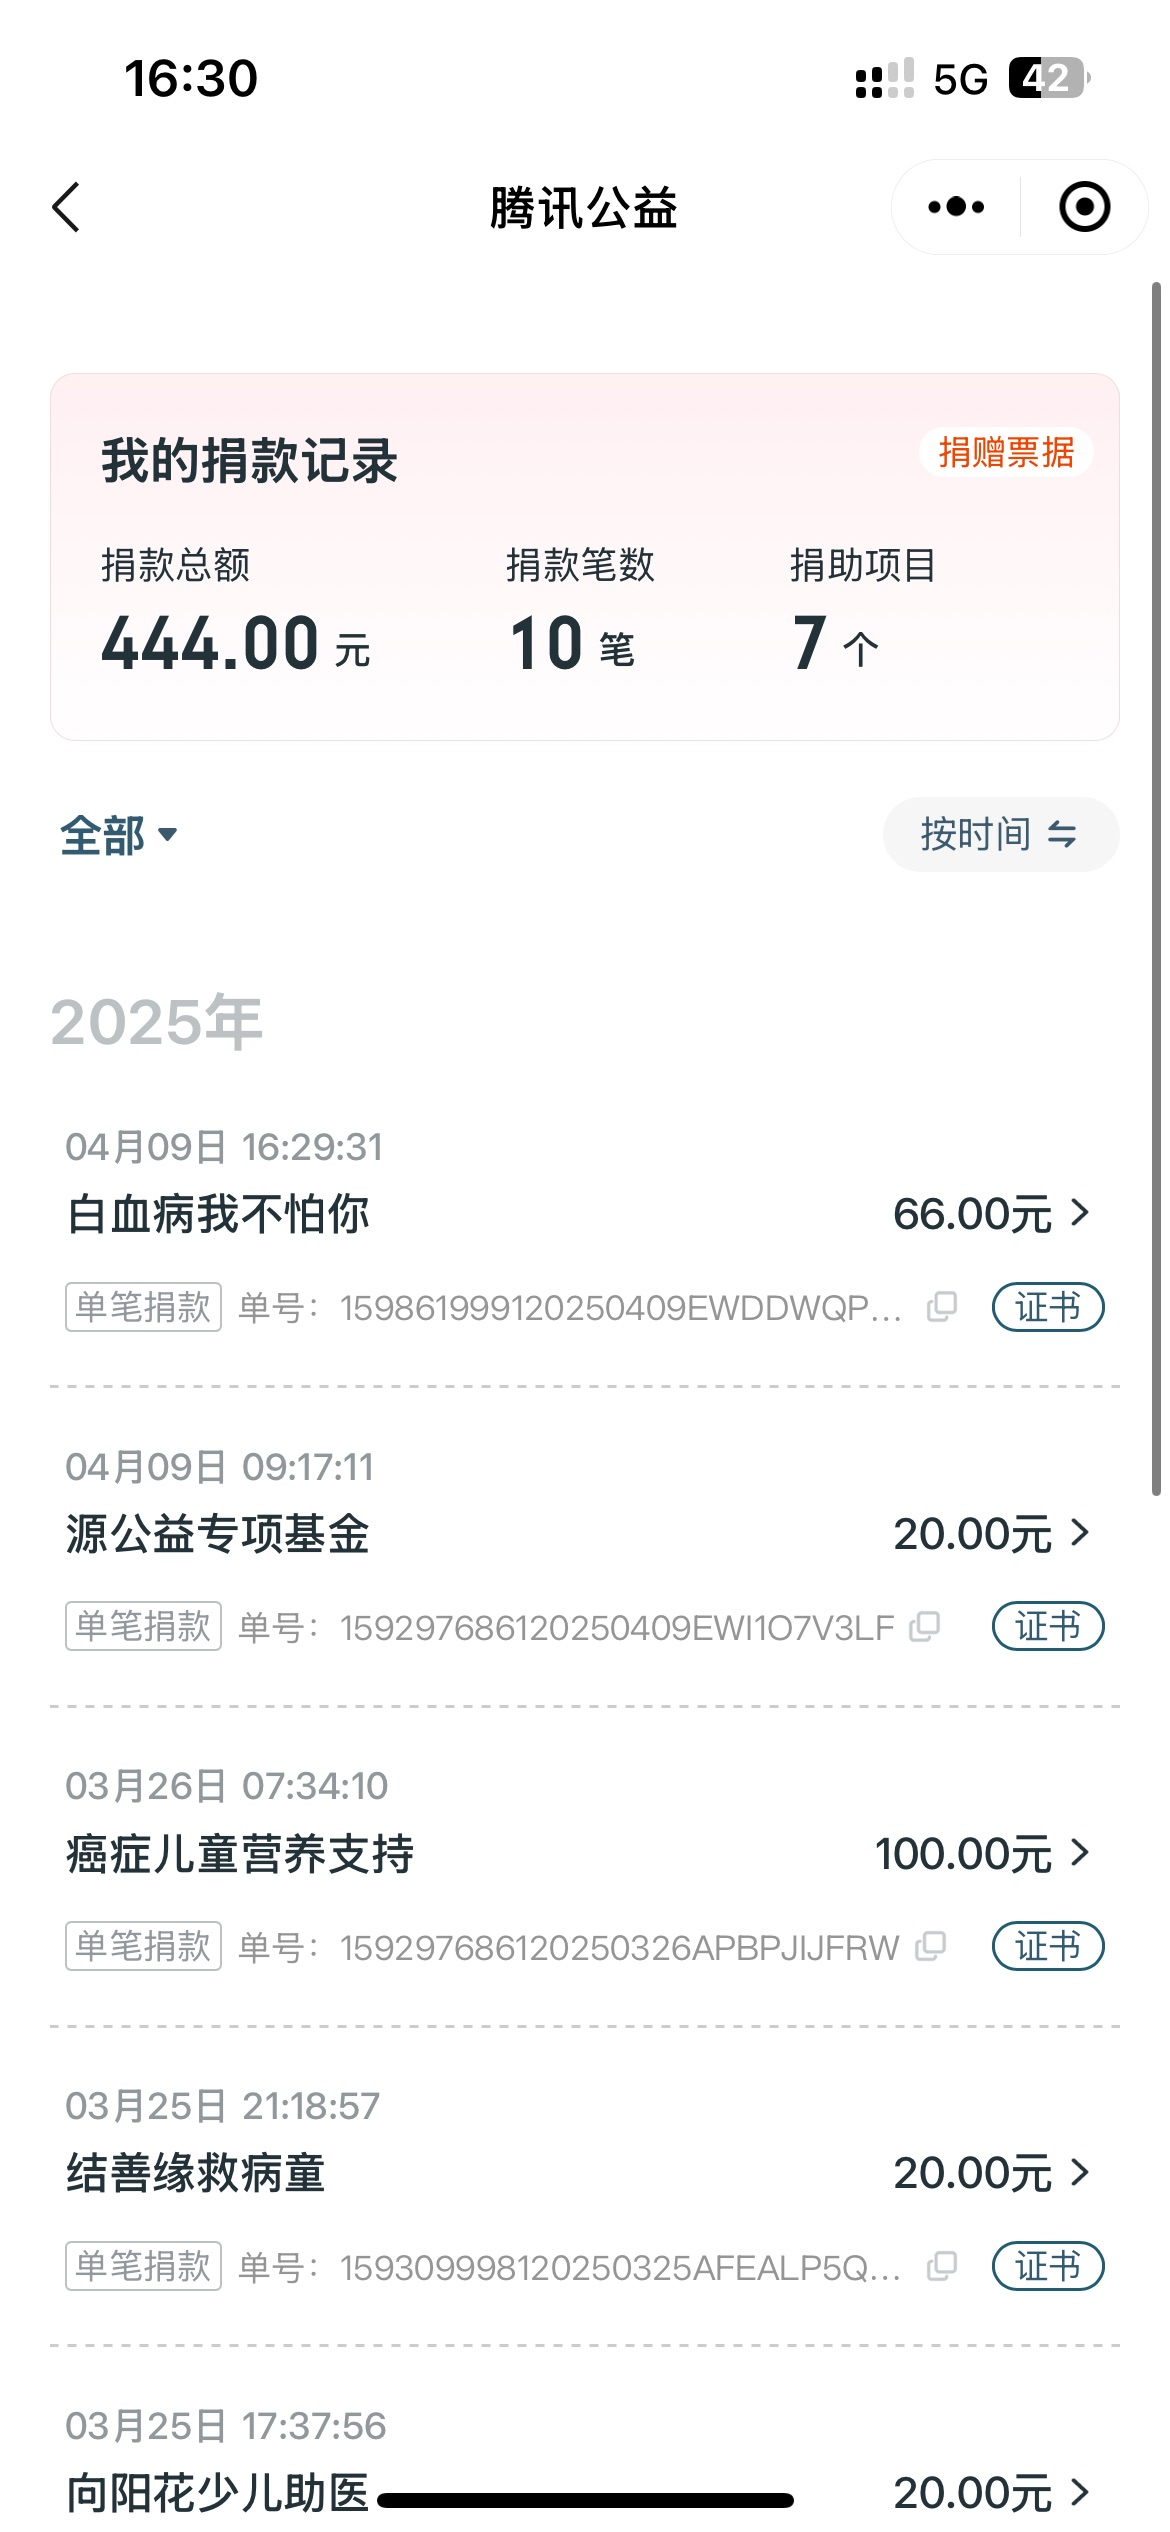
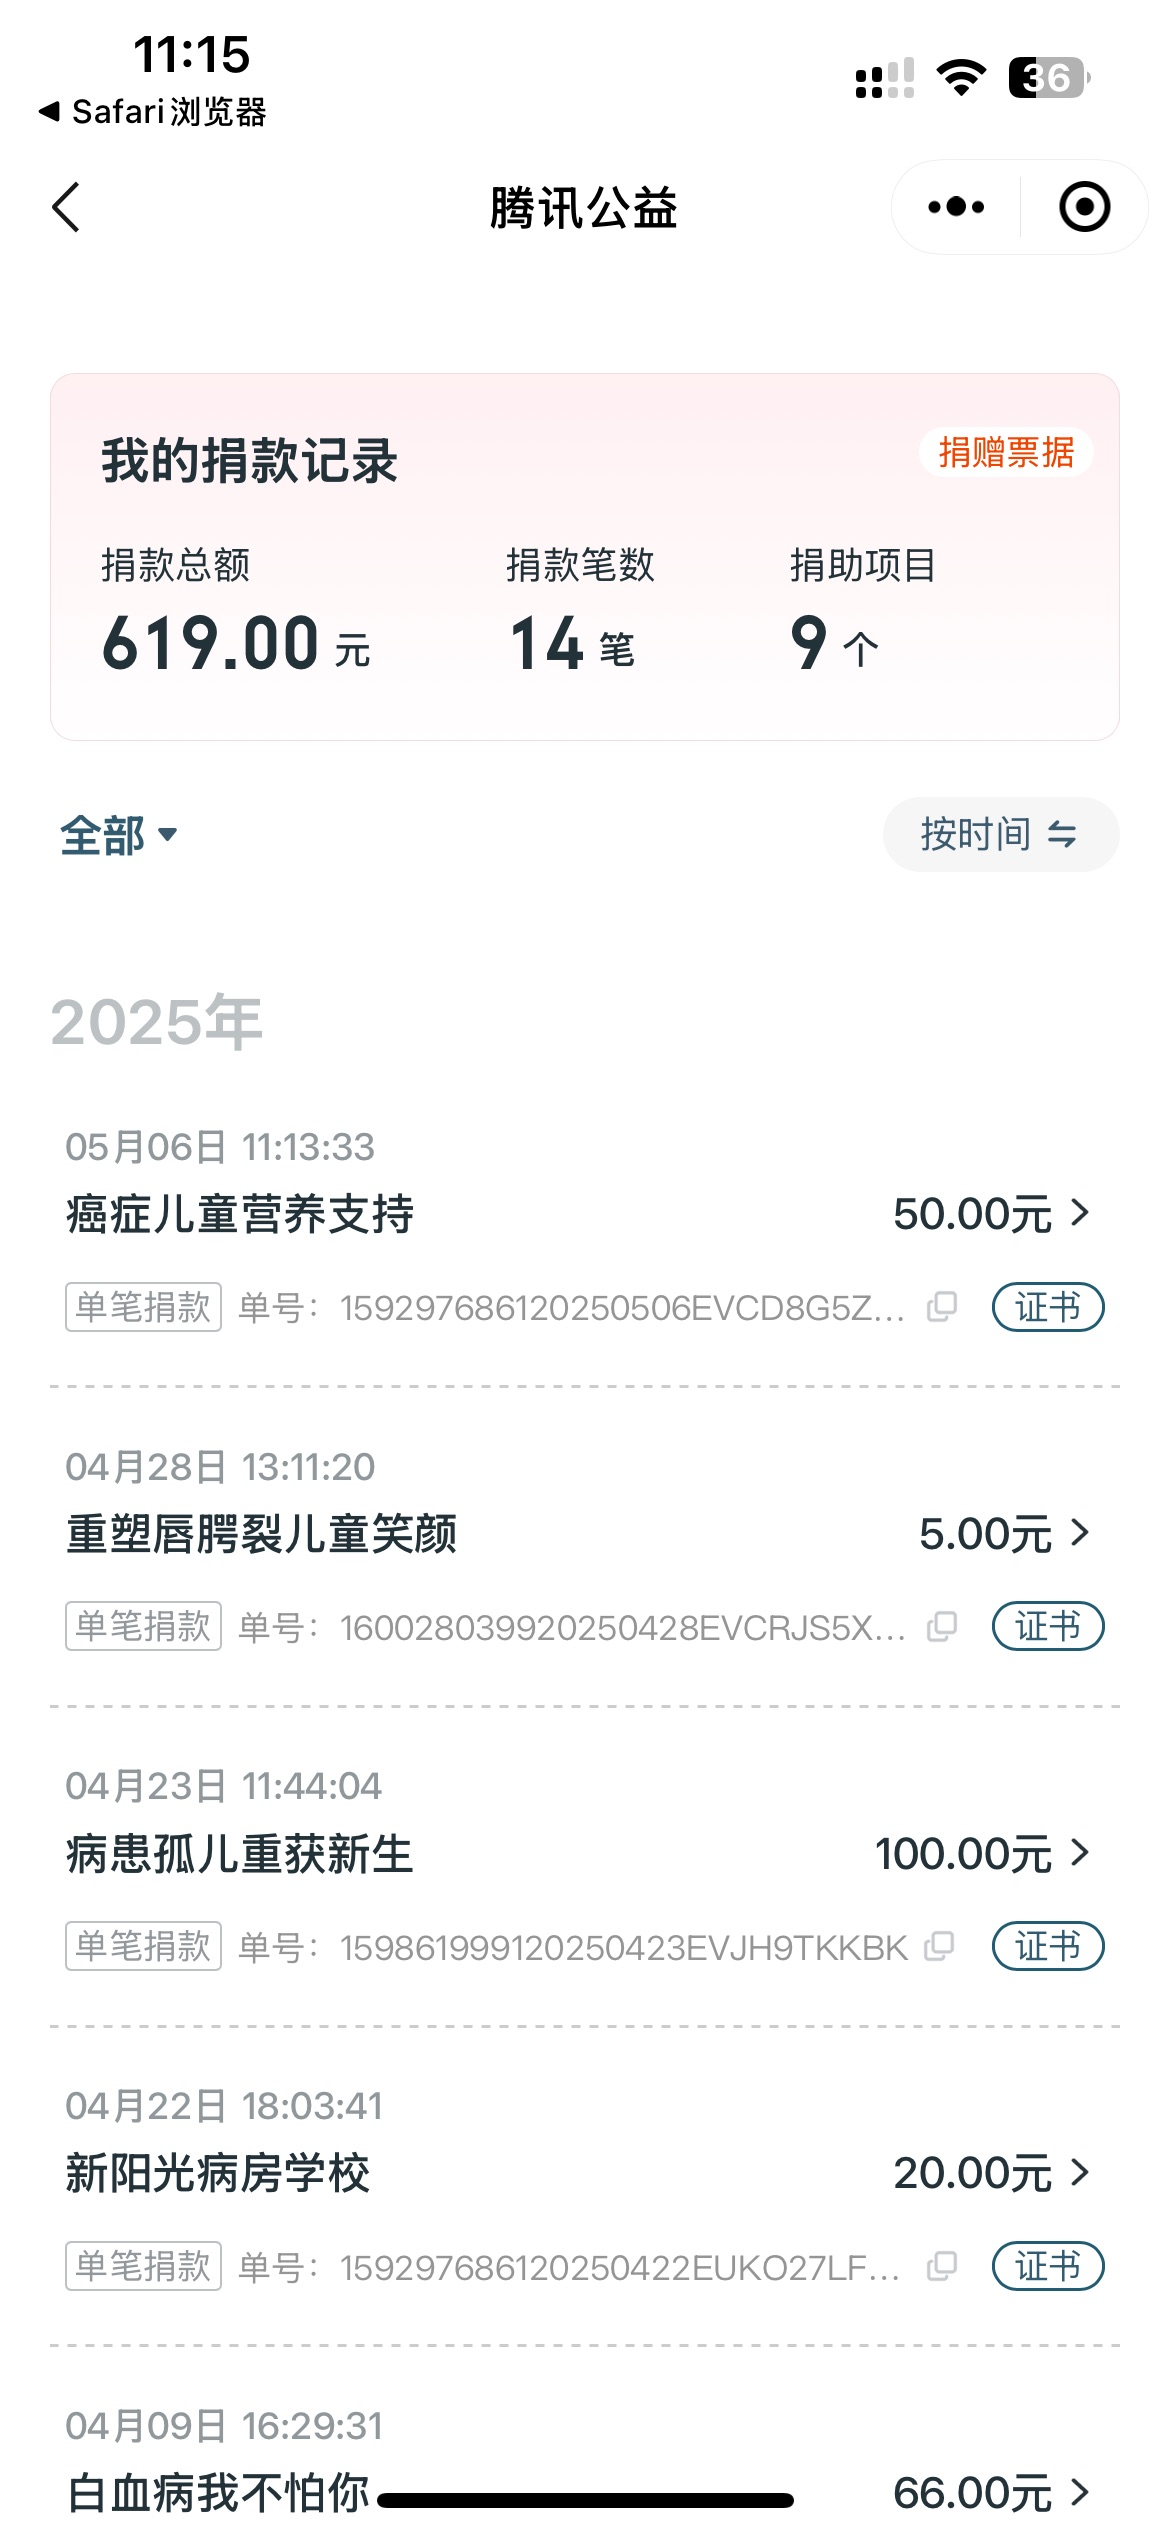
更新打赏

diff --git a/examples/cesiumEx/gis-scene-sh/index.html b/examples/cesiumEx/gis-scene-sh/index.html
@@ -1,7 +1,7 @@
 <!DOCTYPE html>
 
 <head>
-    <title>CesiumDemo-SH小场景(源码版)</title>
+    <title>CesiumDemo</title>
     <!-- Use correct character set. -->
     <meta charset="utf-8" />
     <!-- Tell IE to use the latest, best version. -->
@@ -129,9 +129,8 @@
     </style>
 </head>
 
-<body>
-    <a class="bvideo" href="https://space.bilibili.com/432028432">可视化场景分享</a>
-    <a class="view" id="view" href="#">默认视图</a>
+<body style="margin: 0; overflow: hidden; background: #fff; width: 100%; height: 100%; position: absolute; top: 0">
+    <div id="map" style="margin: 0 auto; width: 100%; height: 100%"></div>
     <div id="sceneContainer"></div>
     <div id="loadingIndicator" class="loadingIndicator"></div>
     <div id="loadingIndicator2" class="loadingIndicator2"></div>

diff --git a/examples/cesiumEx/00.html b/examples/cesiumEx/00.html
@@ -20,9 +20,14 @@
 
         const viewer = new Cesium.Viewer('map', {
             // 添加这两行，就不会找烦人的defaultAccessToken了，也不会找在线底图了
-            imageryProvider:false,
+            imageryProvider: false,
             baseLayerPicker: false,
         });
+
+        viewer.scene.primitives.add(new Cesium.DebugModelMatrixPrimitive({
+            length: 16668666.8,
+            width: 2
+        }))
 
         // 自定义底图
         var imageryProvider = new Cesium.SingleTileImageryProvider({

diff --git a/donate/index.html b/donate/index.html
@@ -28,6 +28,7 @@
     <img src="./159297686120250422EUKO27LFPQ.jpg">
     <img src="./159861999120250423EVJH9TKKBK.jpg">
     <img src="./160028039920250428EVCRJS5X9R.jpg">
+    <img src="./159297686120250506EVCD8G5Z4W.jpg">
 </body>
 
 </html>

diff --git a/README.md b/README.md
@@ -71,6 +71,7 @@
 | 兵山              | 20      | 2025.04.22 | 
 | 不懂              | 100     | 2025.04.22 | 
 | 读书台            | 5       | 2025.04.28 | 
+| Ataraxia          | 50      | 2025.05.04 | 
 
 ### 关于打赏
 - 您的每一笔打赏，我都会原封不动以**您的名义**捐赠到腾讯公益。
